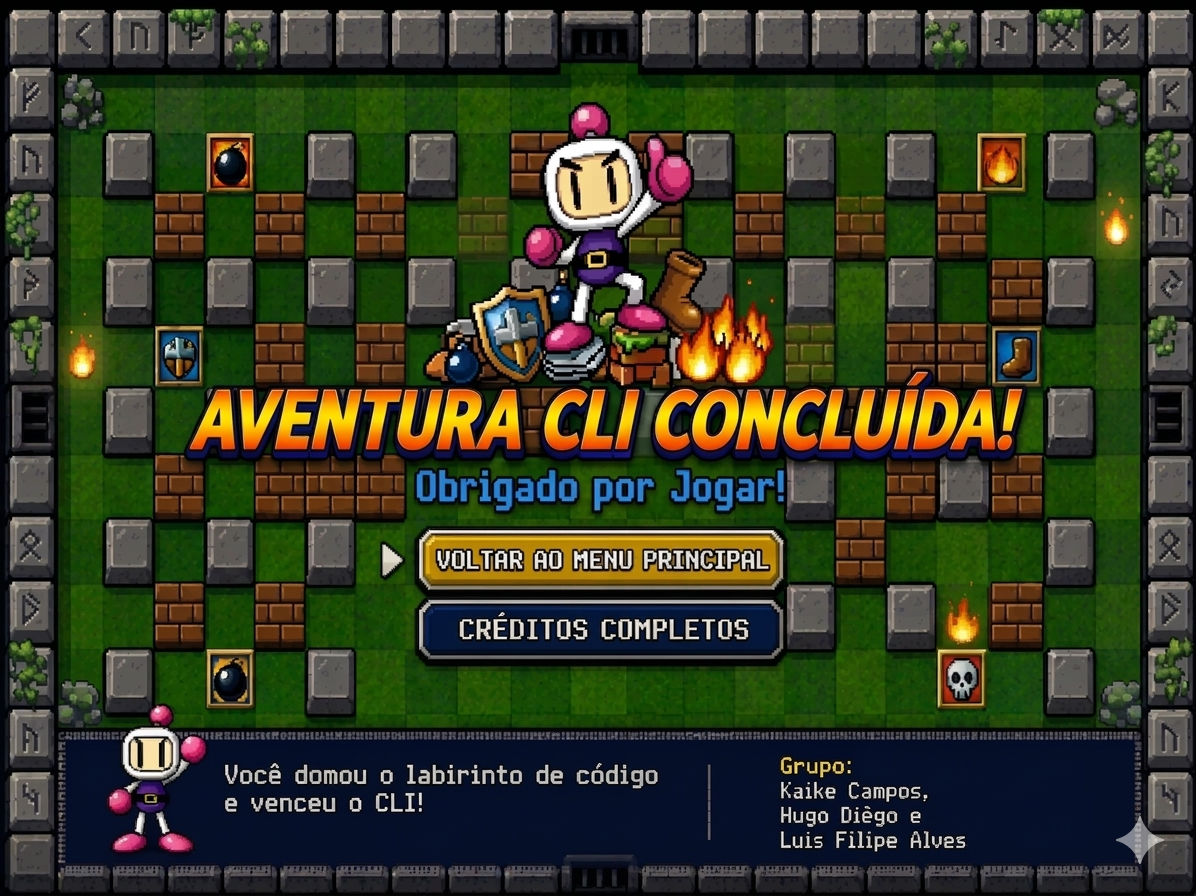
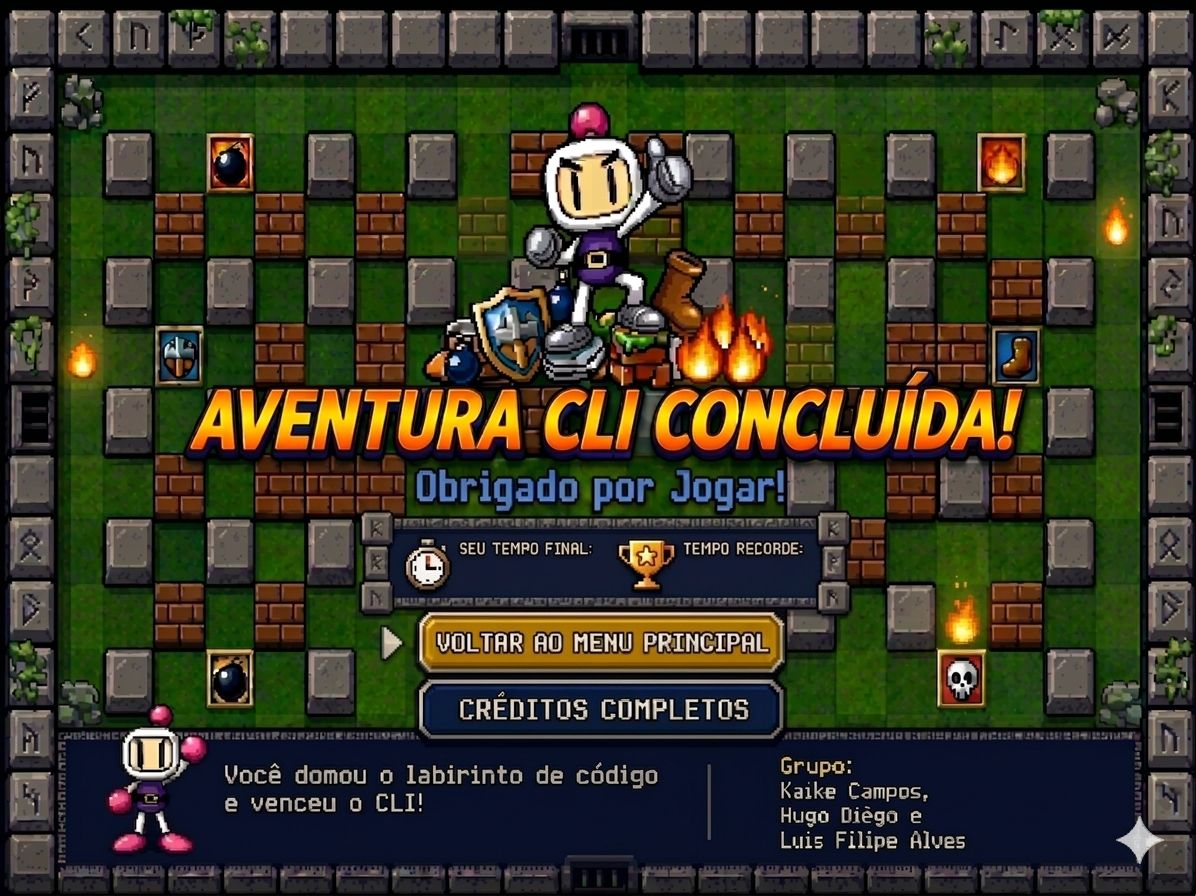
implementa ranking com arquivos e lista encadeada

diff --git a/src/main.c b/src/main.c
@@ -1,5 +1,6 @@
 #include "raylib.h"
 #include <stdlib.h>
+#include <stdio.h>
 
 int pixel = 64;
 #define LINHAS 13
@@ -26,6 +27,21 @@ typedef struct inimigo{
     int vivo;
     float tempoInimigo;
 }inimigo;
+
+typedef struct score{
+    float tempo;
+    struct score *prox;
+}score;
+
+void adicionarScore(score **lista, float tempo){
+
+    score *novo = malloc(sizeof(score));
+
+    novo->tempo = tempo;
+    novo->prox = *lista;
+
+    *lista = novo;
+}
 
 void moverjogador(char mapa[LINHAS][COLUNAS+1],int *andarX, int *andarY){
 
@@ -466,6 +482,11 @@ int main(){
 
     int vidas = 3;
 
+    float tempoJogo = 0;
+    float topScore = 9999;
+
+    score *listaScores = NULL;
+
     int andarX=10;
     int andarY=6;
 
@@ -521,12 +542,23 @@ int main(){
     Texture2D explosao = LoadTexture("assets/explosao.png");
     Texture2D bombaTex = LoadTexture("assets/bomba.png");
 
+    FILE *arquivo = fopen("topscore.txt", "r");
+
+    if(arquivo != NULL){
+        fscanf(arquivo, "%f", &topScore);
+        fclose(arquivo);
+    }
+
     SetTargetFPS(60);
     
     int offsetX =(GetScreenWidth() - (COLUNAS * pixel)) / 2;
     int offsetY =(GetScreenHeight() - (LINHAS * pixel))/ 2;
 
     while(!WindowShouldClose()){
+
+        if(estadoJogo == 1){
+            tempoJogo += GetFrameTime();
+        }
 
         if(IsKeyPressed(KEY_K)){
             for(int i = 0; i < 5; i++){
@@ -583,6 +615,7 @@ int main(){
                 vidas = 3;
 
                 fase = 1;
+                tempoJogo = 0;
                 faseatual = 1;
 
                 andarX = 10;
@@ -723,6 +756,19 @@ int main(){
 
         if(inimigosVivos == 0 && estadoJogo == 1){
             if(fase == 3){
+                adicionarScore(&listaScores, tempoJogo);
+
+                if(tempoJogo < topScore){
+                    topScore = tempoJogo;
+
+                    FILE *arquivo = fopen("topscore.txt", "w");
+
+                    if(arquivo != NULL){
+                        fprintf(arquivo, "%.2f", topScore);
+                        fclose(arquivo);
+                    }
+                }
+
                 estadoJogo = 3;
             }
             else{
@@ -870,11 +916,27 @@ int main(){
                 WHITE
             );
 
+            DrawText(
+                TextFormat("%.2f", tempoJogo),
+                GetScreenWidth()/2 - 160,
+                680,
+                35,
+                WHITE
+            );
+
+            DrawText(
+                TextFormat("%.2f", topScore),
+                GetScreenWidth()/2 + 180,
+                680,
+                35,
+                GOLD
+            );
+
             Vector2 mouse = GetMousePosition();
 
             Rectangle botaoMenu={
                 GetScreenWidth()/2 - 288,
-                GetScreenHeight()/2 +100,
+                GetScreenHeight()/2 +198,
                 585,
                 70
             };
@@ -915,7 +977,7 @@ int main(){
 
             Rectangle botaoCreditos={
                 GetScreenWidth()/2 - 288,
-                GetScreenHeight()/2 +186,
+                GetScreenHeight()/2 +282,
                 585,
                 70
             };
@@ -993,6 +1055,7 @@ int main(){
                     vidas = 3;
 
                     fase = 1;
+                    tempoJogo = 0;
                     faseatual = 1;
 
                     andarX = 10;
@@ -1027,6 +1090,7 @@ int main(){
                     vidas = 3;
 
                     fase = 1;
+                    tempoJogo = 0;
                     faseatual = 1;
 
                     andarX = 10;
@@ -1169,6 +1233,14 @@ int main(){
     UnloadTexture(bombaTex);
 
     CloseWindow();
+
+    score *atual = listaScores;
+
+    while(atual != NULL){
+        score *temp = atual;
+        atual = atual->prox;
+        free(temp);
+    }
 
     return 0;
     }
